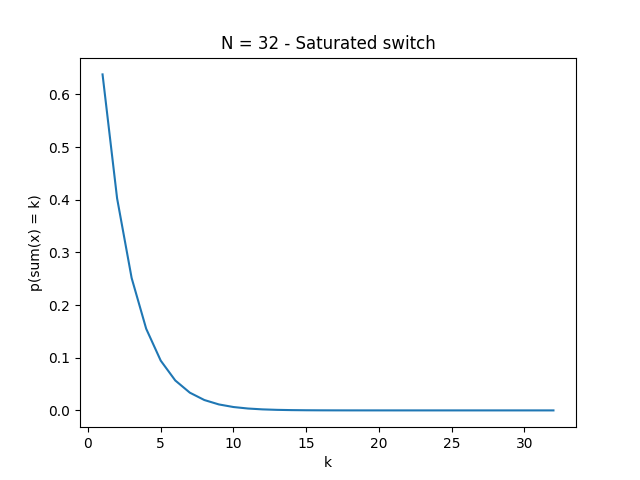
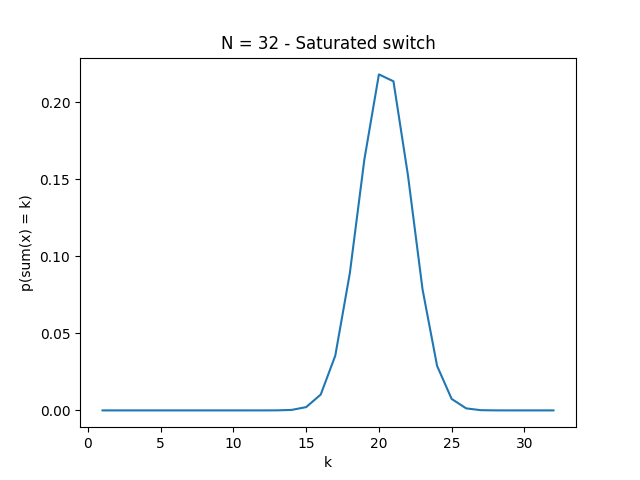
finished part 3

diff --git a/homework1/homework_1.py b/homework1/homework_1.py
@@ -32,13 +32,9 @@ def prob_x_bins_empty(N):
 
 def calculate_prob_at_least_one_bin_occupied(k, n, m): #N output M input
     res = 0
-    for r in range(1, k+1):
-        #print(aux)
-        if r % 2 == 0:
-            res = res - aCb(k, r)* pow(1-r/n, m)
-        else:
-            res = res + aCb(k, r)* pow(1-r/n, m)
-    return res
+    for r in range(0, k+1):
+        res = res + (pow(-1,r) * aCb(k, r) * pow((k-r)/n,m))
+    return aCb(n,k) * res
 
 def plot_non_saturated_2_k(): #N = M
     N = [4,8,32,64]
@@ -55,7 +51,7 @@ def plot_non_saturated_2_k(): #N = M
             else:
                 res_total_prob = 0
                 for m in range(k, n+1): #total Prob formula for each possible m input
-                    aux = 1-calculate_prob_at_least_one_bin_occupied(k, n, m)
+                    aux = calculate_prob_at_least_one_bin_occupied(k, n, m)
                     res_total_prob = res_total_prob + (aux * binom.pmf(m,n,prob)) #num of success m (inputs) in n input lines
                 res.append(res_total_prob)
         ax1.plot(list(range(0,n+1)),res)
@@ -70,10 +66,46 @@ def plot_saturated_2_k():
         ax1.set(xlabel='k', ylabel='p(sum(x) = k)', title='N = '+ str(n) +' - Saturated switch')
         res = []
         for k in range(1, n+1):
-            res.append(1-calculate_prob_at_least_one_bin_occupied(k, n, n))
+            res.append(calculate_prob_at_least_one_bin_occupied(k, n, n))
         ax1.plot(list(range(1,n+1)),res)
         #f1.show()
         f1.savefig(str(n)+"_saturated_part2.png")
+
+def plot_saturated_3(): #if independent it will behaviour as binomial distribution
+    N = [4,8,32,64,128]
+    for n in N:
+        f1 = plt.figure()
+        ax1 = f1.add_subplot()
+        ax1.set(xlabel='k', ylabel='p(sum(x) = k)', title='N = '+ str(n) +' - Saturated switch - Xn and Xm independent')
+        res = []
+        for k in range(1, n+1):
+            prob = aCb(n,k) * binom.pmf(k,n,1/n) #k sucess in n outputs, where prob is 1/n
+            res.append(prob)
+        ax1.plot(list(range(1,n+1)),res)
+        #f1.show()
+        f1.savefig(str(n)+"_saturated_part3.png")
+
+def plot_non_saturated_3(): #N = M
+    N = [4,8,32,64]
+    prob = 1/2
+    for n in N:
+        f1 = plt.figure()
+        ax1 = f1.add_subplot()
+        ax1.set(xlabel='k', ylabel='p(sum(x) = k)', title='N = '+ str(n) +' - Non Saturated switch - Xn and Xm independent')
+        res = []
+        for k in range(0, n+1):
+            if k == 0:
+                res.append(binom.pmf(k,n,prob)) #Probability input lines are empty
+                print(res)
+            else:
+                res_total_prob = 0
+                for m in range(k, n+1): #total Prob formula for each possible m input
+                    aux = aCb(n,k) * binom.pmf(k,n,1/n) #Prob getting k success in n outputs
+                    res_total_prob = res_total_prob + (aux * binom.pmf(m,n,prob)) #num of success m (inputs) in n input lines
+                res.append(res_total_prob)
+        ax1.plot(list(range(0,n+1)),res)
+        #f1.show()
+        f1.savefig(str(n)+"_non_saturated_part3.png")
 
 def plot_non_saturated_1():
     f1 = plt.figure()
@@ -95,7 +127,7 @@ def plot_non_saturated_1():
     f1.savefig("non-saturated-part1.png")
     ax2.plot(iList, dataAgregatted)
     f2.savefig("non-saturated-part1-aggre.png")
-    plt.show()
+    #plt.show()
 
     
 def plot_saturated_1():
@@ -118,7 +150,7 @@ def plot_saturated_1():
     f1.savefig("saturated-part1.png")
     ax2.plot(iList, dataAgregatted)
     f2.savefig("saturated-part1-aggre.png")
-    plt.show()
+    #plt.show()
 
 
 
@@ -131,9 +163,9 @@ def main():
         print("i-> ",i,"Expected aggregated", prob*i, "Expected single", prob)
 
 
-#plot_saturated_1()
-#plot_non_saturated_1()
-#prob_x_bins_empty(32)
-
-#plot_saturated_2_k()
+plot_saturated_1()
+plot_non_saturated_1()
+plot_saturated_2_k()
 plot_non_saturated_2_k()
+plot_non_saturated_3()
+plot_saturated_3()
